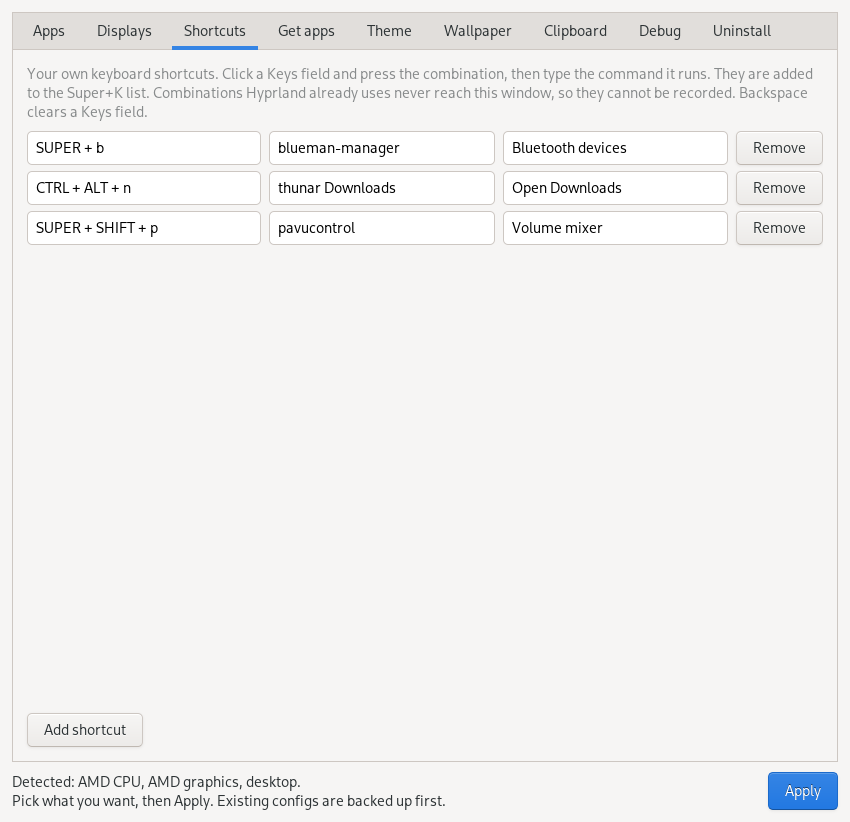
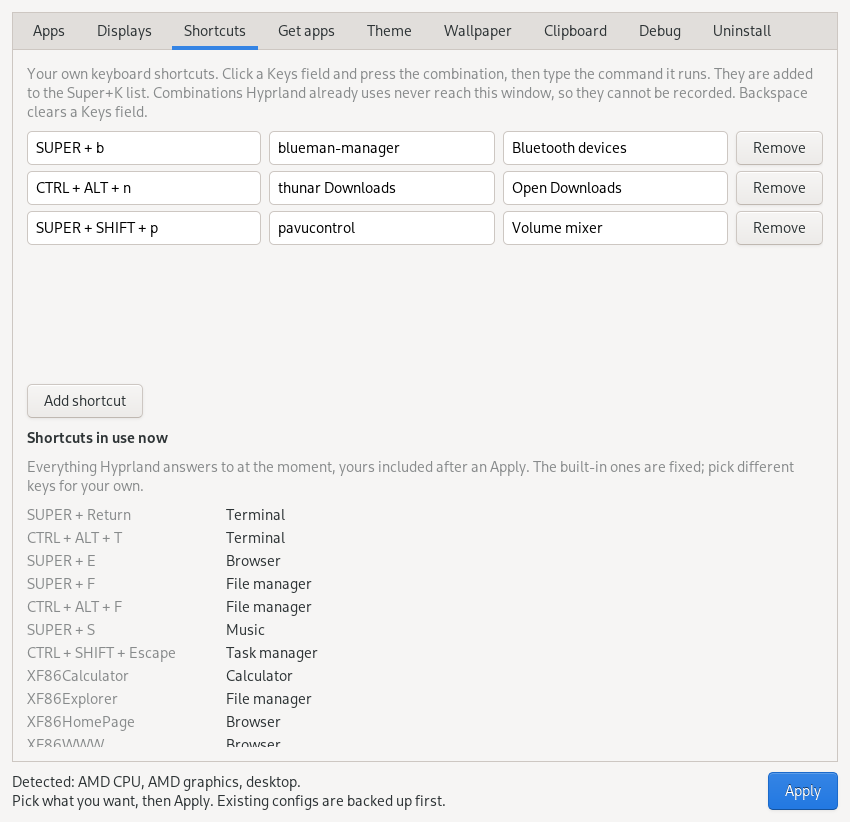
Shortcuts tab: list every shortcut in use
Below the custom shortcuts, show all binds Hyprland has now (keys and what
they do), read from `hyprctl binds`. The list refreshes when the tab opens.

Changed region(s): [[0.0306, 0.4562, 0.9176, 0.9124], [0.2753, 0.6083, 0.3671, 0.9124]]

diff --git a/lkr/gui.py b/lkr/gui.py
@@ -56,7 +56,7 @@ class Ricer(Gtk.Window):
         bottom.pack_start(self.status, True, True, 0)
         bottom.pack_end(apply_btn, False, False, 0)
         outer.pack_start(bottom, False, False, 0)
-        book.connect("switch-page", lambda *_: self.list_uninstall())  # the list changes after an Apply
+        book.connect("switch-page", lambda *_: (self.list_uninstall(), self.list_binds()))  # both change after an Apply
         self.loading = False
 
     # ----- small builders -----
@@ -316,6 +316,28 @@ class Ricer(Gtk.Window):
         page.pack_start(add, False, False, 0)
         for sc in self.s["shortcuts"]:
             self.add_shortcut(sc)
+
+        head = Gtk.Label(label="Shortcuts in use now", xalign=0)
+        head.get_style_context().add_class("heading")
+        page.pack_start(head, False, False, 0)
+        self.note(page, "Everything Hyprland answers to at the moment, yours included after an Apply. "
+                        "The built-in ones are fixed; pick different keys for your own.")
+        self.binds = Gtk.Grid(column_spacing=24, row_spacing=4)
+        listing = Gtk.ScrolledWindow(hscrollbar_policy=Gtk.PolicyType.NEVER)
+        listing.add(self.binds)
+        page.pack_start(listing, True, True, 0)
+        self.list_binds()
+
+    def list_binds(self):
+        for child in self.binds.get_children():
+            self.binds.remove(child)
+        rows = core.current_binds() or [("", "Open this window inside a Hyprland session to see them.")]
+        for n, (keys, what) in enumerate(rows):
+            key = Gtk.Label(label=keys, xalign=0, selectable=True)
+            key.get_style_context().add_class("dim-label")
+            self.binds.attach(key, 0, n, 1, 1)
+            self.binds.attach(Gtk.Label(label=what, xalign=0), 1, n, 1, 1)
+        self.binds.show_all()
 
     def add_shortcut(self, sc=None):
         if sc is None:

diff --git a/lkr/core.py b/lkr/core.py
@@ -219,6 +219,21 @@ def install_packages(packages):
     return True
 
 
+def current_binds():
+    """Every shortcut Hyprland has now, as (keys, what it does), in config order."""
+    try:
+        binds = json.loads(_quiet("hyprctl", "binds", "-j") or "[]")
+    except ValueError:
+        return []
+    rows = []
+    for b in binds:
+        if b.get("description"):
+            key = {"mouse:272": "Left-drag", "mouse:273": "Right-drag"}.get(b["key"], b["key"])
+            mods = [name for bit, name in ((64, "SUPER"), (4, "CTRL"), (8, "ALT"), (1, "SHIFT")) if b["modmask"] & bit]
+            rows.append((" + ".join(mods + [key]), b["description"]))
+    return rows
+
+
 def live_monitors():
     """Connected screens as Hyprland has them now: position, mode, and size in layout units."""
     try:
